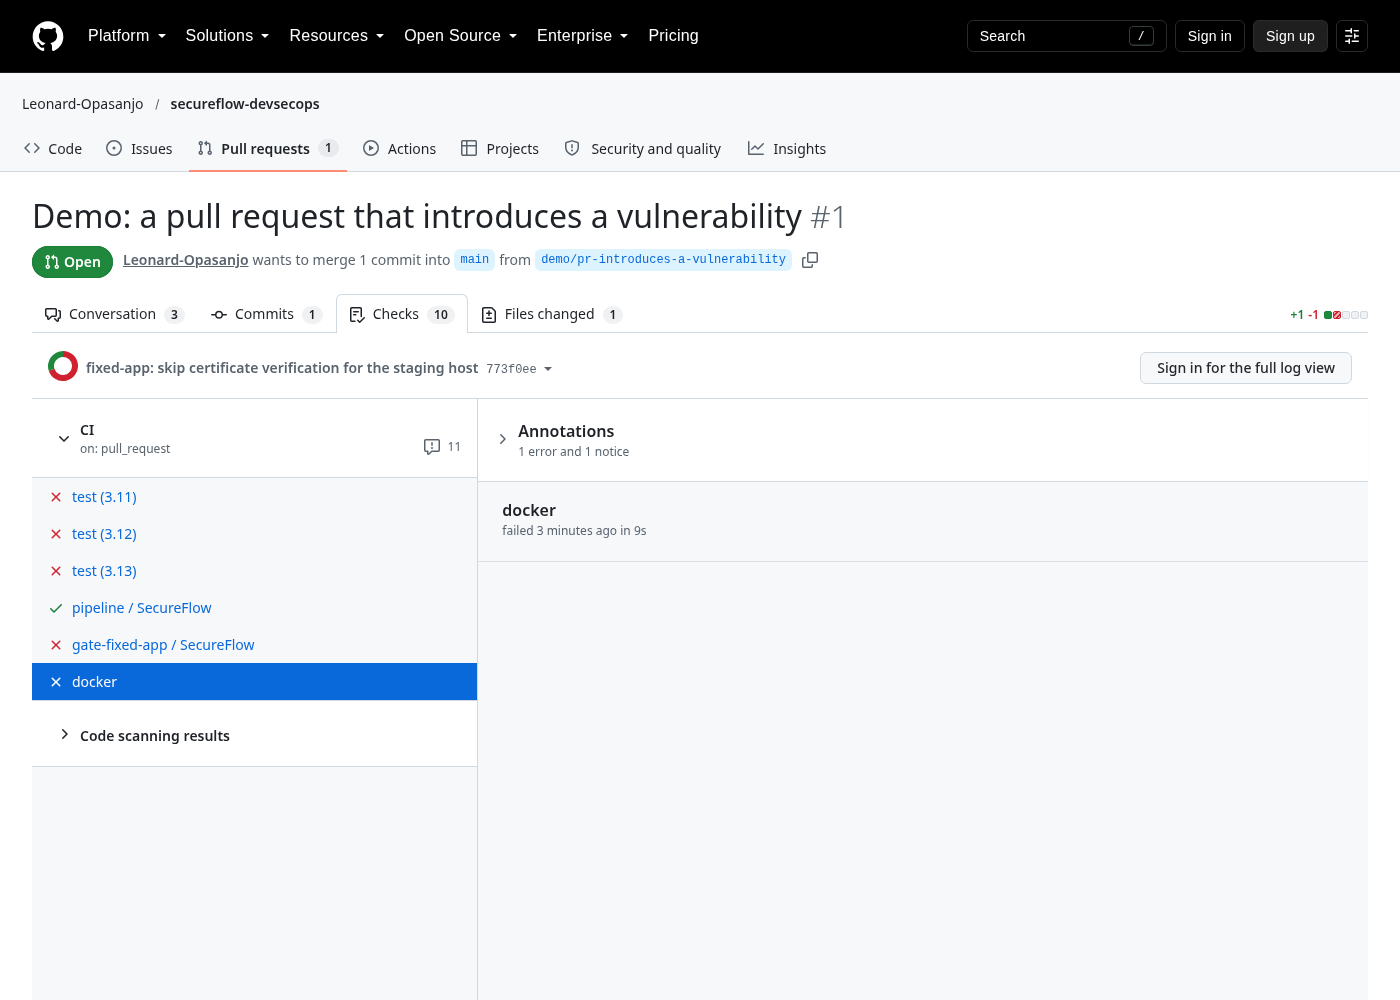
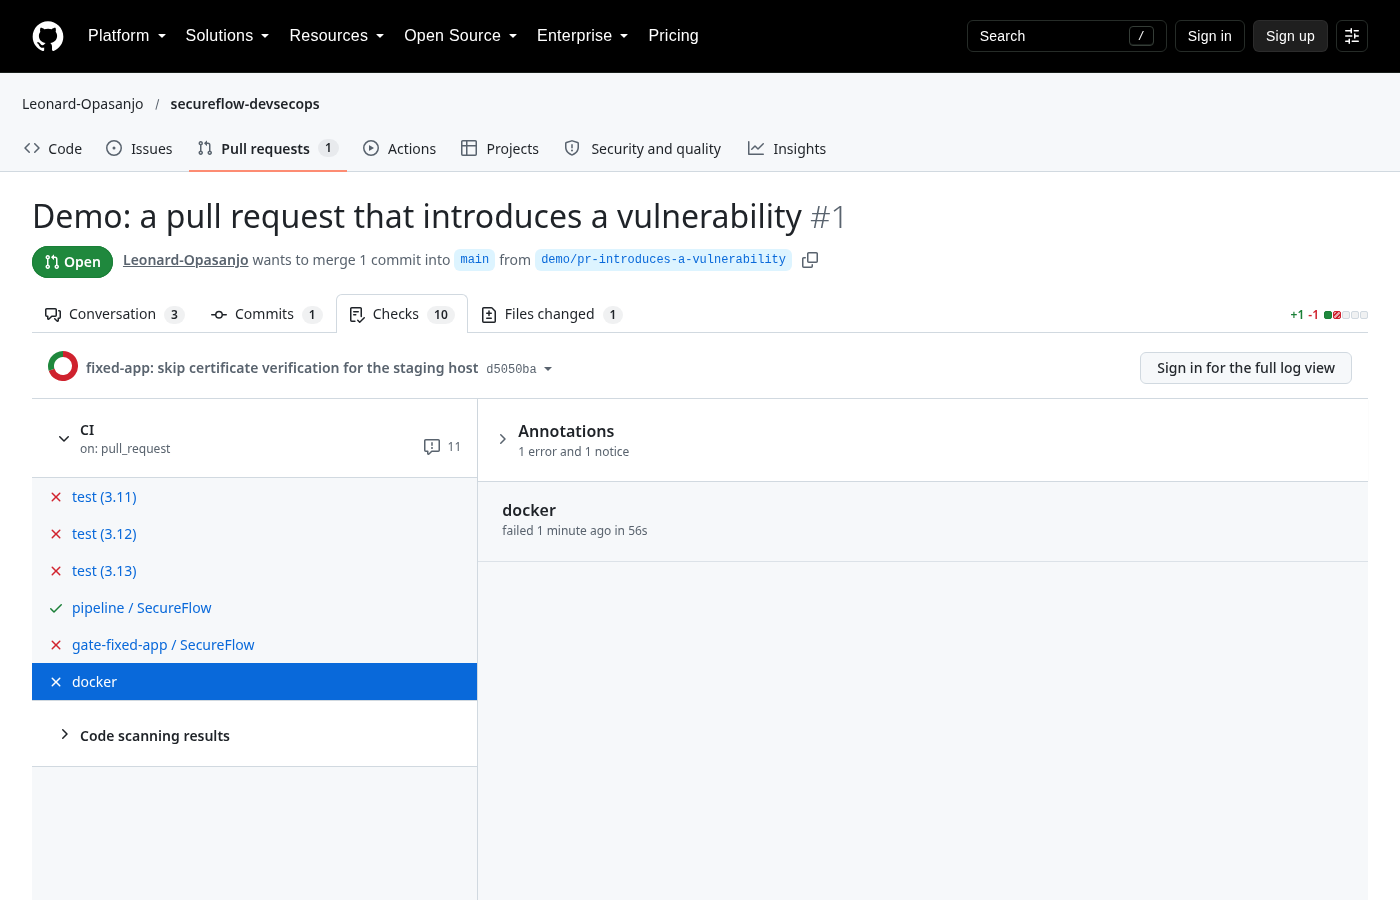
README: show the pipeline running on the demo pull request

Changed region(s): [[0.0, 0.0, 1.0, 0.7778], [0.8293, 0.3111, 0.9829, 0.4356], [0.0614, 0.8089, 0.1536, 0.84]]

diff --git a/README.md b/README.md
@@ -56,13 +56,13 @@ The report lands as a comment on the pull request and is updated in place on eve
 
 ![The SecureFlow report posted as a pull request comment](docs/pr-comment.png)
 
-The gate on the fixed sample fails the check, while the reporting-only run on the whole repository passes:
+The gate on the fixed sample fails its check, as do the container run and the test suite, which both hold the
+fixed sample to the same standard. The reporting-only run on the whole repository passes:
 
-![Pull request checks: pipeline passes, gate-fixed-app fails](docs/pr-checks.png)
+![Pull request checks: pipeline passes; gate-fixed-app, docker and the tests fail](docs/pr-checks.png)
 
-And the same report is the job summary of every run, next to the artifact with the SARIF and JSON:
-
-![Actions run summary showing the SecureFlow report](docs/run-summary.png)
+The same report is also written to the job summary of every run (visible to anyone signed in with access to
+the Actions tab), and the run's artifact holds the Markdown, the SARIF and the findings JSON.
 
 ## Purpose
 
